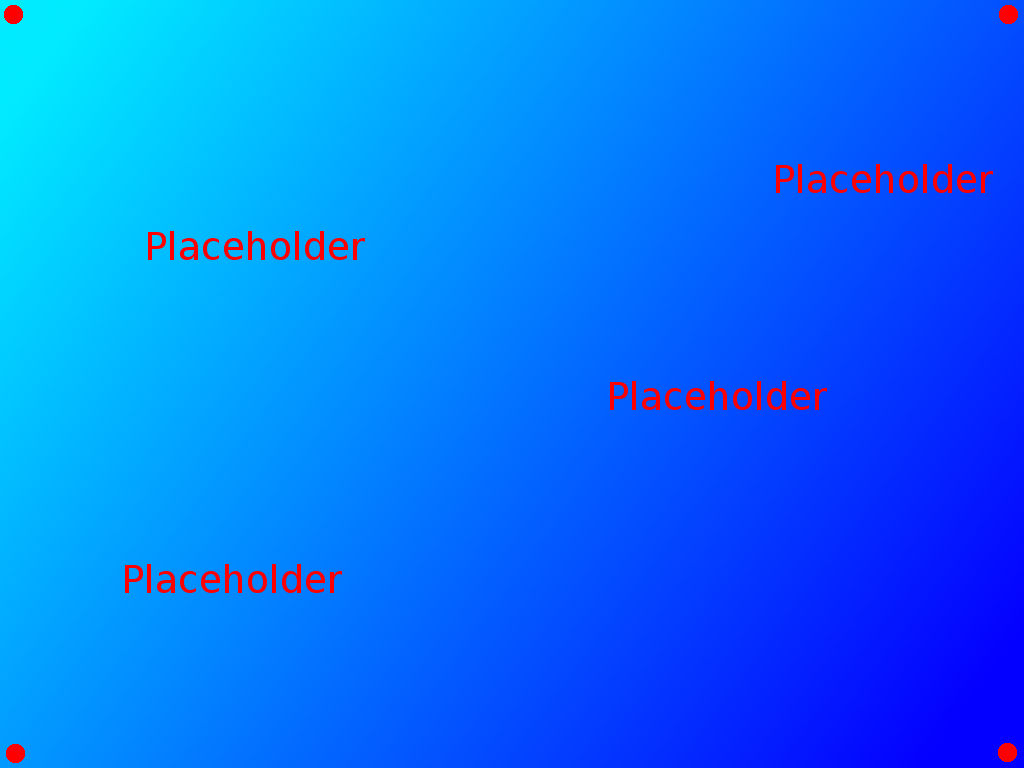
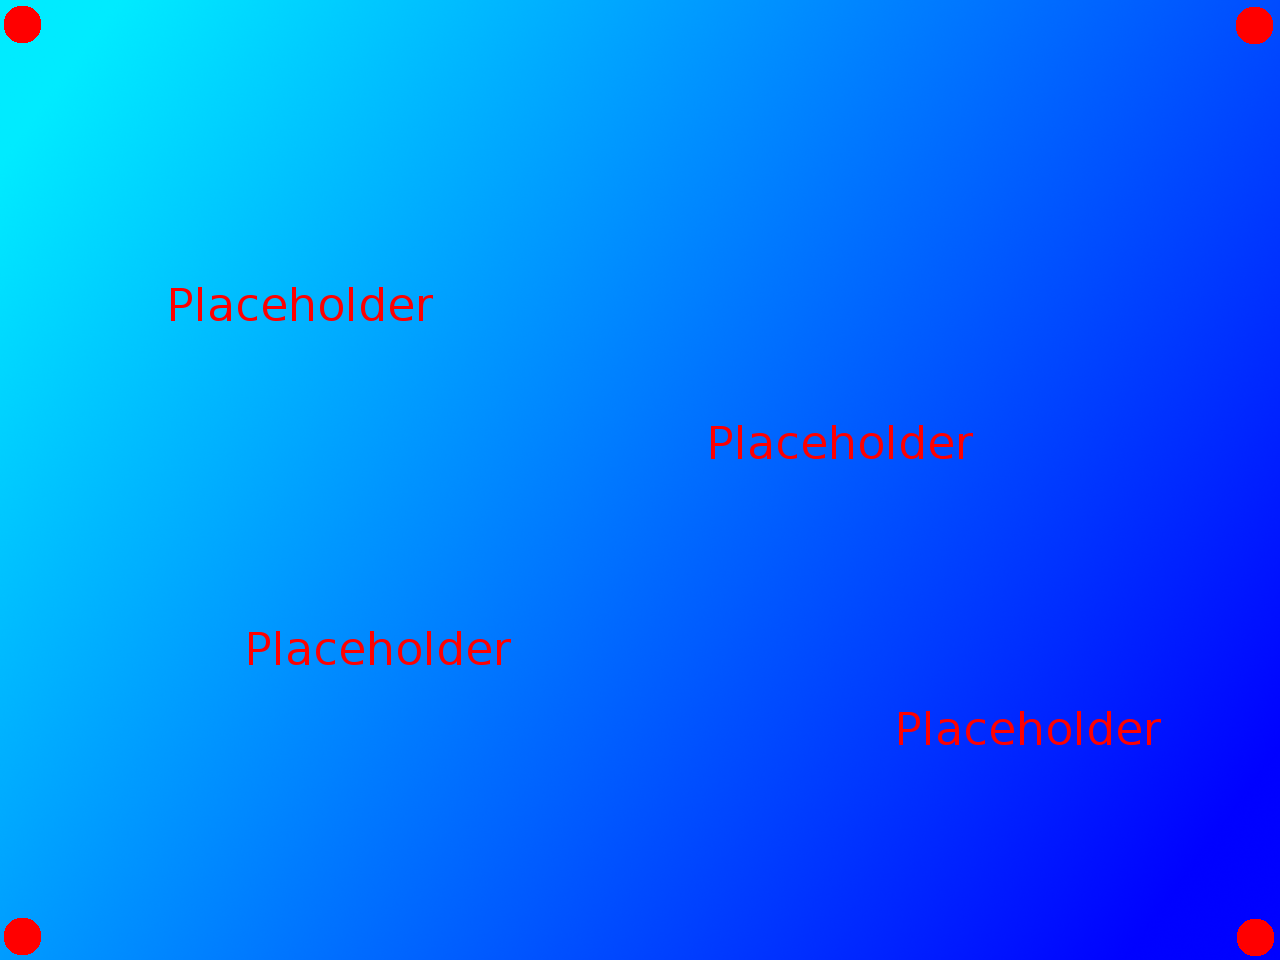
Provide an even higher resolution for the placeholder image.

diff --git a/tsc/docs/pages/scene.md b/tsc/docs/pages/scene.md
@@ -74,7 +74,7 @@ A full scene draft contains these elements:
 * When the scene should be entered.
 * What should happen when it exits.
 
-The full-screen images should target a size of 1024x768 px. The game
+The full-screen images should target a size of 1280x960 px. The game
 can be played at any resolution that is a multiple of this aspect
 ratio, though, down to 800x600 as the minimum resolution.
 
